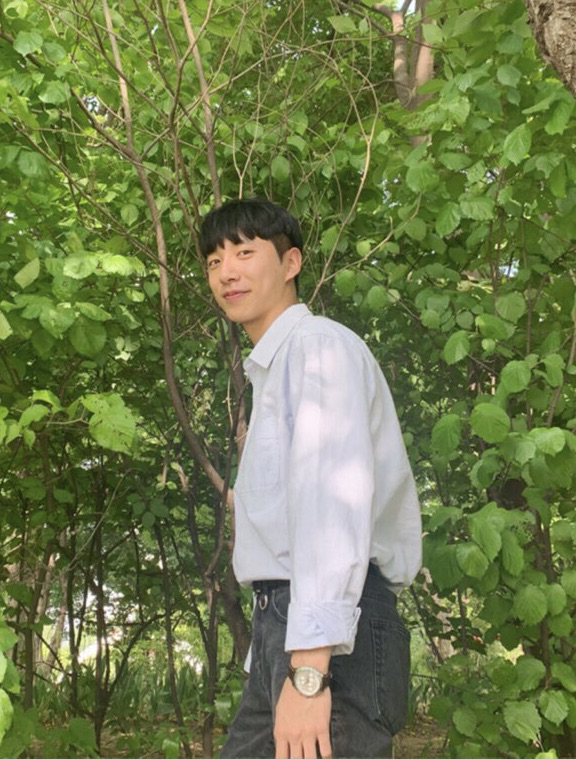
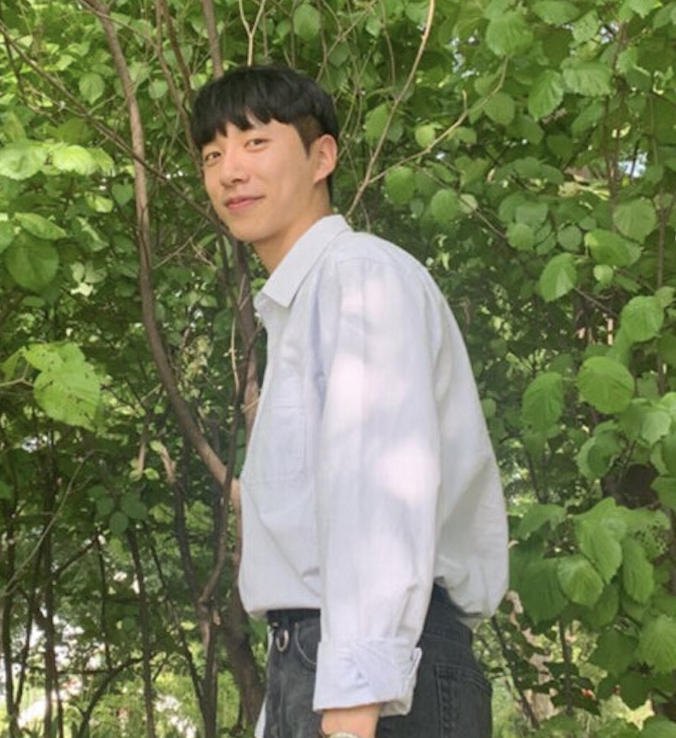
문구 맞춤법/띄어 쓰기 재검토, 프로필 사진 사이즈 변경, 로딩화면 추가, main 백그라운드 이미지 변경

diff --git a/src/main/Main.js b/src/main/Main.js
@@ -1,13 +1,14 @@
 import React, { Component } from "react";
 import { URL_FRONT } from "common/config";
+import Loading from "loading/Loading";
 import My from "main/my/My";
 import MyWork from "main/my/MyWork";
 import Pickle from "main/pickle/Pickle";
 import Others from "main/others/Others";
 import OtherWorks from "main/otherworks/OtherWorks";
 import Appeal from "main/appeal/Appeal";
-import { Container, Column, Row, Text } from "common/styleUtil";
-import { Page_1, Page_2, SlideInText, BounceText, Email } from "./styleUtil";
+import { Column, Text } from "common/styleUtil";
+import { MainContainer, Page_1, Page_2, SlideInText, BounceText, Email } from "./styleUtil";
 import { connect } from "react-redux";
 import { device_check } from "common/config";
 
@@ -16,6 +17,7 @@ class Main extends Component {
         super(props);
         this.state = {
             env: null,
+            loading: <Loading />,
         };
     }
 
@@ -49,14 +51,29 @@ class Main extends Component {
         window.addEventListener("scroll", this.handleScroll);
         const env = device_check();
         this.setState({ env });
+        const header = document.getElementById("header");
+        const footer = document.getElementById("footer");
+        if (header && footer) {
+            header.style.display = "none";
+            footer.style.display = "none";
+        }
+        setTimeout(() => {
+            this.setState({ loading: false });
+            header.style.display = "flex";
+            footer.style.display = "flex";
+        }, 1600);
     };
 
     render() {
-        return (
-            <Container overflow_x="hidden" onScroll={this.handleScroll}>
+        const { loading } = this.state;
+        return loading ? (
+            loading
+        ) : (
+            <MainContainer onScroll={this.handleScroll}>
                 <Page_1 id="page_1">
                     <SlideInText
                         id="first_title"
+                        position="relative"
                         size="90px"
                         second="3s"
                         text_align="center"
@@ -69,6 +86,7 @@ class Main extends Component {
                     </SlideInText>
                     <SlideInText
                         id="second_title"
+                        position="relative"
                         top="700px"
                         mobile_top="400px"
                         size="70px"
@@ -110,7 +128,7 @@ class Main extends Component {
                         </BounceText>
                     </Column>
                 </Page_2>
-            </Container>
+            </MainContainer>
         );
     }
 }

diff --git a/src/main/my/MyWork.js b/src/main/my/MyWork.js
@@ -44,7 +44,7 @@ export default class MyWork extends Component {
                                 Web Development
                                 <WorkText>
                                     React를 사용한 웹 개발을 이해하며 깨끗한 코드를 작성하기 위해 공부합니다. <br />
-                                    데이터를 받아와 어떻게 효율적으로 뿌려줄지 관심이 많으며 유지보수를 고려한 코드
+                                    데이터를 받아와 어떻게 효율적으로 뿌려줄지 관심이 많으며 유지/보수를 고려한 코드
                                     작성, <DesktopBr />
                                     데이터 <MobileBr /> 관리 등 탄탄한 업무 프로세스를 지향합니다.
                                 </WorkText>
@@ -68,7 +68,7 @@ export default class MyWork extends Component {
                             <WorkMenu>
                                 Co-work
                                 <WorkText>
-                                    빠르고 정확한 업무를 위해 팀원들과 끝 없이 소통합니다. 백엔드 개발자, 디자이너와
+                                    빠르고 정확한 업무를 위해 팀원들과 끝없이 소통합니다. 백엔드 개발자, 디자이너와
                                     가깝게 일하며 <DesktopBr /> Github, Figma등 협업 툴을 적극적으로 사용하여 원활한
                                     협업을 이끌어냅니다.
                                 </WorkText>

diff --git a/src/main/my/My.js b/src/main/my/My.js
@@ -52,10 +52,10 @@ class My extends Component {
                             <Column mobile_align_items="center">
                                 <Img
                                     src={profile}
-                                    width="180px"
+                                    width="220px"
                                     mobile_width="120px"
-                                    height="237px"
-                                    mobile_height="160px"
+                                    height="240px"
+                                    mobile_height="140px"
                                     border_radius="30px"
                                     style={{ border: "2px #000000 solid" }}
                                     top="90px"
@@ -180,7 +180,7 @@ class My extends Component {
                                 Carrer
                             </Text>
                             <Text top="15px" mobile_top="10px" size="12px" height="19px">
-                                2019.11 ~ 2020.11 &nbsp; <MobileBr /> 피클플러스 웹 개발, <MobileBr />
+                                2019.11 ~ 2020.11 &nbsp; <br /> 피클플러스 웹 개발, <MobileBr />
                                 출시 및 서비스 유지/보수
                             </Text>
                             <Text

diff --git a/src/main/styleUtil.js b/src/main/styleUtil.js
@@ -1,15 +1,17 @@
 import React from "react";
 import styled, { css } from "styled-components";
 import { Container, Row, Text, media } from "common/styleUtil";
-import { SlideIn, BounceAnim } from "anim/styleUtil";
-import backimg from "assets/img/bigsur.png";
+import { FadeIn, SlideIn, BounceAnim } from "anim/styleUtil";
+import backimg from "assets/img/wallpaper.png";
 
-export const PageContainer = styled(Container)`
-    overflow-y: scroll;
+export const MainContainer = styled(Container)`
+    overflow-x: hidden;
+    animation: ${FadeIn} 0.5s ease-in;
 `;
 
 export const Page_1 = styled.div`
     display: flex;
+    position: relative;
     flex-direction: column;
     align-items: center;
     justify-content: flex-start;
@@ -23,6 +25,16 @@ export const Page_1 = styled.div`
     background-repeat: no-repeat;
     background-position: center;
     background-attachment: fixed;
+    &:before {
+        content: "";
+        position: absolute;
+        top: 0;
+        right: 0;
+        left: 0;
+        bottom: 0;
+        background: rgba(0, 0, 0, 0.6);
+    }
+
     ${media.phone`
         height: 700px;
         padding-left: 30px;

diff --git a/src/loading/Loading.js b/src/loading/Loading.js
@@ -1,0 +1,29 @@
+import React, { Component } from "react";
+import { Container, Text } from "common/styleUtil";
+import { LoadingBox, ReadyText } from "loading/styleUtil";
+
+export default class Loading extends Component {
+    constructor(props) {
+        super(props);
+        this.state = {
+            ready_text: "웹 사이트 준비 중...",
+        };
+    }
+    componentDidMount() {
+        setTimeout(() => {
+            this.setState({ ready_text: "시작할게요!" });
+        }, 1500);
+    }
+    render() {
+        return (
+            <Container height="100vh" align_items="center" justify_content="center">
+                <LoadingBox>
+                    <Text size="80px" mobile_size="40px" font_family="NotoSansCJKkr-Bold">
+                        DevBean
+                    </Text>
+                </LoadingBox>
+                <ReadyText>{this.state.ready_text}</ReadyText>
+            </Container>
+        );
+    }
+}

diff --git a/src/loading/styleUtil.js b/src/loading/styleUtil.js
@@ -1,0 +1,29 @@
+import styled, { css, keyframes } from "styled-components";
+import { Column, Text, media } from "common/styleUtil";
+import { FadeIn, LoadingBounce } from "anim/styleUtil";
+
+export const LoadingBox = styled(Column)`
+    padding-top: 15px;
+    padding-bottom: 15px;
+    padding-left: 30px;
+    padding-right: 30px;
+    border: solid 5px #000;
+    animation: ${LoadingBounce} 2s linear;
+    ${media.phone`
+        padding-top: 8px;
+        padding-bottom: 8px;
+        padding-left: 20px;
+        padding-right: 20px;
+        border: solid 4px #000;
+    `}
+`;
+
+export const ReadyText = styled(Text)`
+    margin-top: 20px;
+    font-size: 20px;
+    animation: ${FadeIn} 0.5s ease-in;
+    ${media.phone`
+        margin-top: 15px;
+        font-size: 16px;
+    `}
+`;

diff --git a/src/main/appeal/Appeal.js b/src/main/appeal/Appeal.js
@@ -96,7 +96,7 @@ class Appeal extends Component {
                             필요할 때
                         </ItemText>
                         <ItemText>열정이 있으며 성장하는 사람이 필요할 때</ItemText>
-                        <ItemText font_family="NotoSansCJKkr-Bold">좋아하는 일을 열심히하는 사람이 필요할 때</ItemText>
+                        <ItemText font_family="NotoSansCJKkr-Bold">좋아하는 일을 열심히 하는 사람이 필요할 때</ItemText>
                         <WorkButton
                             c
                             top="50px"

diff --git a/src/anim/styleUtil.js b/src/anim/styleUtil.js
@@ -103,6 +103,30 @@ export const BounceAnim2 = keyframes`
     }
 `;
 
+export const LoadingBounce = keyframes`
+    0% { 
+        transform: translateY(0)
+    }
+    15%  { 
+        transform: translateY(-30px)
+    }
+    35%  { 
+        transform: translateY(0px)
+    }
+    50%  { 
+        transform: translateY(-15px)
+    }
+    60% { 
+        transform: translateY(0px)
+    }
+    70% { 
+        transform: translateY(-8px)
+    }
+    80% { 
+        transform: translateY(0px)
+    }
+`;
+
 export const HeartAnim = keyframes`
     0% {
         transform: scale(1);

diff --git a/src/common/Header.js b/src/common/Header.js
@@ -33,7 +33,7 @@ class Header extends Component {
     render() {
         const { scroll_top } = this.state;
         return (
-            <HeaderContainer onScroll={this.handleScroll}>
+            <HeaderContainer id="header" onScroll={this.handleScroll}>
                 {scroll_top > 2250 ? (
                     <ChangedHeaderBox
                         desktop

diff --git a/src/common/Footer.js b/src/common/Footer.js
@@ -4,7 +4,7 @@ import { FooterContainer, Row, Text, HeartText } from "common/styleUtil";
 export default class Footer extends Component {
     render() {
         return (
-            <FooterContainer>
+            <FooterContainer id="footer">
                 <Row>
                     <Text
                         size="15px"

diff --git a/src/main/pickle/mainskill/MainSkillPage.js b/src/main/pickle/mainskill/MainSkillPage.js
@@ -1,6 +1,6 @@
 import React, { Component } from "react";
 import { Column, Row, Text, MobileBr } from "common/styleUtil";
-import { SkillCircle, MainContainer, MainContents } from "main/pickle/styleUtil";
+import { SkillCircle } from "main/pickle/styleUtil";
 
 export default class MainSkill extends Component {
     render() {
